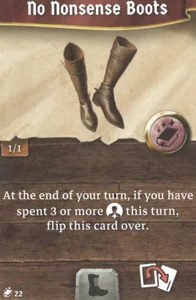
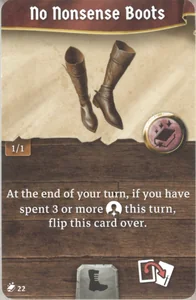
Item flip animation (the picture turns like a played card; follows the playmat's Reduce motion setting only); Hail's solo item scans kept whole (no trim, corners filled)

diff --git a/campaign/app.js b/campaign/app.js
@@ -1539,7 +1539,7 @@ function itemClick(e, c) {
   const st = q('[data-itstate]');
   if (st) { commit(ed.setItemState(record, c.id, st.dataset.id, Number(st.dataset.itstate))); return true; }
   const fl = q('[data-itflip]');
-  if (fl) { commit(ed.setItemFlipped(record, c.id, fl.dataset.id, fl.dataset.itflip === '1')); return true; }
+  if (fl) { flipItem(c.id, fl.dataset.id, fl.dataset.itflip === '1'); return true; }
   const sort = q('[data-itemssort]');
   if (sort) { commit(ed.sortItems(record, c.id)); return true; }
   if (q('[data-itemsedit]')) {
@@ -1866,6 +1866,22 @@ main.addEventListener('drop', e => {
 })();
 // Flip a played card with the mockup's animation: turn the card in place first (the page is redrawn from the record, which would cut
 // the animation short), save when it has finished. A card turned face up goes flat afterwards ("settled"), as in the mockup.
+// Flip an item of a character to its back (back true) or front, turned like a played card: the picture (on the shelf, in the phone list
+// and in the item dialog) turns to its edge, shows the other side and turns back; the change is saved when the turn ends. The item's
+// markup stays (badges, markers), only its picture turns (Web Animations, so a redraw in between does not cut it). Reduce motion: at once.
+function flipItem(cid, id, back) {
+  const save = () => commit(ed.setItemFlipped(record, cid, id, back));
+  const item = ITEMS.find(x => String(x.id) === String(id)), to = item && (back ? itemBackUrl(item) : itemImageUrl(item));
+  const sel = `[data-char="${CSS.escape(cid)}"][data-id="${CSS.escape(String(id))}"]`;
+  const tile = main.querySelector(`.it[data-itemstate]${sel}`);
+  const imgs = [tile?.querySelector(':scope > img'), document.querySelector(`.itmodal .itcard[data-mkcard="i:${CSS.escape(String(id))}"] > img`)].filter(Boolean);
+  if (!to || !imgs.length || tile?.dataset.turning || pmset.reduce) { save(); return; }          // the playmat's own Reduce motion setting, as for played cards
+  if (tile) tile.dataset.turning = '1';
+  new Image().src = to;                                                                       // load the other side while the first half runs
+  const turn = (img, a, b, easing) => img.animate([{ transform: `perspective(700px) rotateY(${a}deg)` }, { transform: `perspective(700px) rotateY(${b}deg)` }], { duration: 230, easing }).finished;
+  Promise.all(imgs.map(img => turn(img, 0, 90, 'ease-in').then(() => { img.src = to; return turn(img, -90, 0, 'ease-out'); })))
+    .catch(() => {}).finally(() => { if (tile) delete tile.dataset.turning; save(); });
+}
 function flipPlayed(f) {
   if (f.dataset.flipping) return;
   f.dataset.flipping = '1';
@@ -1912,7 +1928,7 @@ registerMenu({
     const c = record?.chars.find(x => x.id === el.dataset.char), mine = c?.items.find(x => String(x.id) === el.dataset.id), cur = mine?.s || 0;
     const states = c ? [[0, 'Available'], [1, 'Spent'], [2, 'Consumed']].map(([v, label]) => ({ label, disabled: cur === v, run: () => commit(ed.setItemState(record, c.id, el.dataset.id, v)) })) : [];
     const canFlip = c && itemBackUrl(ITEMS.find(x => String(x.id) === el.dataset.id));
-    const flip = canFlip ? [{ label: mine?.f ? 'Flip to the front' : 'Flip to the back', run: () => commit(ed.setItemFlipped(record, c.id, el.dataset.id, !mine?.f)) }] : [];
+    const flip = canFlip ? [{ label: mine?.f ? 'Flip to the front' : 'Flip to the back', run: () => flipItem(c.id, el.dataset.id, !mine?.f) }] : [];
     return [...(states.length ? [{ header: 'State' }, ...states, { sep: true }] : []), ...flip, { label: 'Zoom', run: () => cardPreview.show(el, true) }, { label: 'Add marker', run: () => openMarkers(`i:${el.dataset.id}`) }];
   },
 });
@@ -2028,7 +2044,7 @@ document.addEventListener('keydown', e => {
   if (item && key === 'f') {
     const c = record?.chars.find(x => x.id === item.dataset.char), mine = c?.items.find(x => String(x.id) === item.dataset.id);
     if (!mine || !itemBackUrl(ITEMS.find(x => String(x.id) === item.dataset.id))) return;
-    e.preventDefault(); commit(ed.setItemFlipped(record, c.id, item.dataset.id, !mine.f)); return;
+    e.preventDefault(); flipItem(c.id, item.dataset.id, !mine.f); return;
   }
   if (item && key !== 'a') {
     const c = record?.chars.find(x => x.id === item.dataset.char);

diff --git a/campaign/index.html b/campaign/index.html
@@ -56,6 +56,6 @@
     </section>
   </div>
 </div>
-<script type="module" src="app.js?v=220"></script>
+<script type="module" src="app.js?v=222"></script>
 </body>
 </html>

diff --git a/tools/prep-mp-solo-items.py b/tools/prep-mp-solo-items.py
@@ -112,8 +112,11 @@ def main():
         elif f in SCANS:
             rgba = cv2.imread(os.path.join(a.src, f), cv2.IMREAD_UNCHANGED)
             ys, xs = np.where(rgba[..., 3] > 200)
-            card = rgba[ys.min():ys.max() + 1, xs.min():xs.max() + 1, :3]
-            cv2.imwrite(os.path.join(a.out, SCANS[f] + '.png'), inset(cv2.resize(card, (W, H), interpolation=cv2.INTER_AREA), 0.018))
+            box = rgba[ys.min():ys.max() + 1, xs.min():xs.max() + 1]
+            # the whole card, nothing cut (the title banner sits close to the top edge): the transparent rounded corners are filled
+            # from the pixels around them
+            card = cv2.inpaint(np.ascontiguousarray(box[..., :3]), ((box[..., 3] <= 200) * 255).astype(np.uint8), 6, cv2.INPAINT_TELEA)
+            cv2.imwrite(os.path.join(a.out, SCANS[f] + '.png'), cv2.resize(card, (W, H), interpolation=cv2.INTER_AREA))
             print(f, '->', SCANS[f])
 
 
